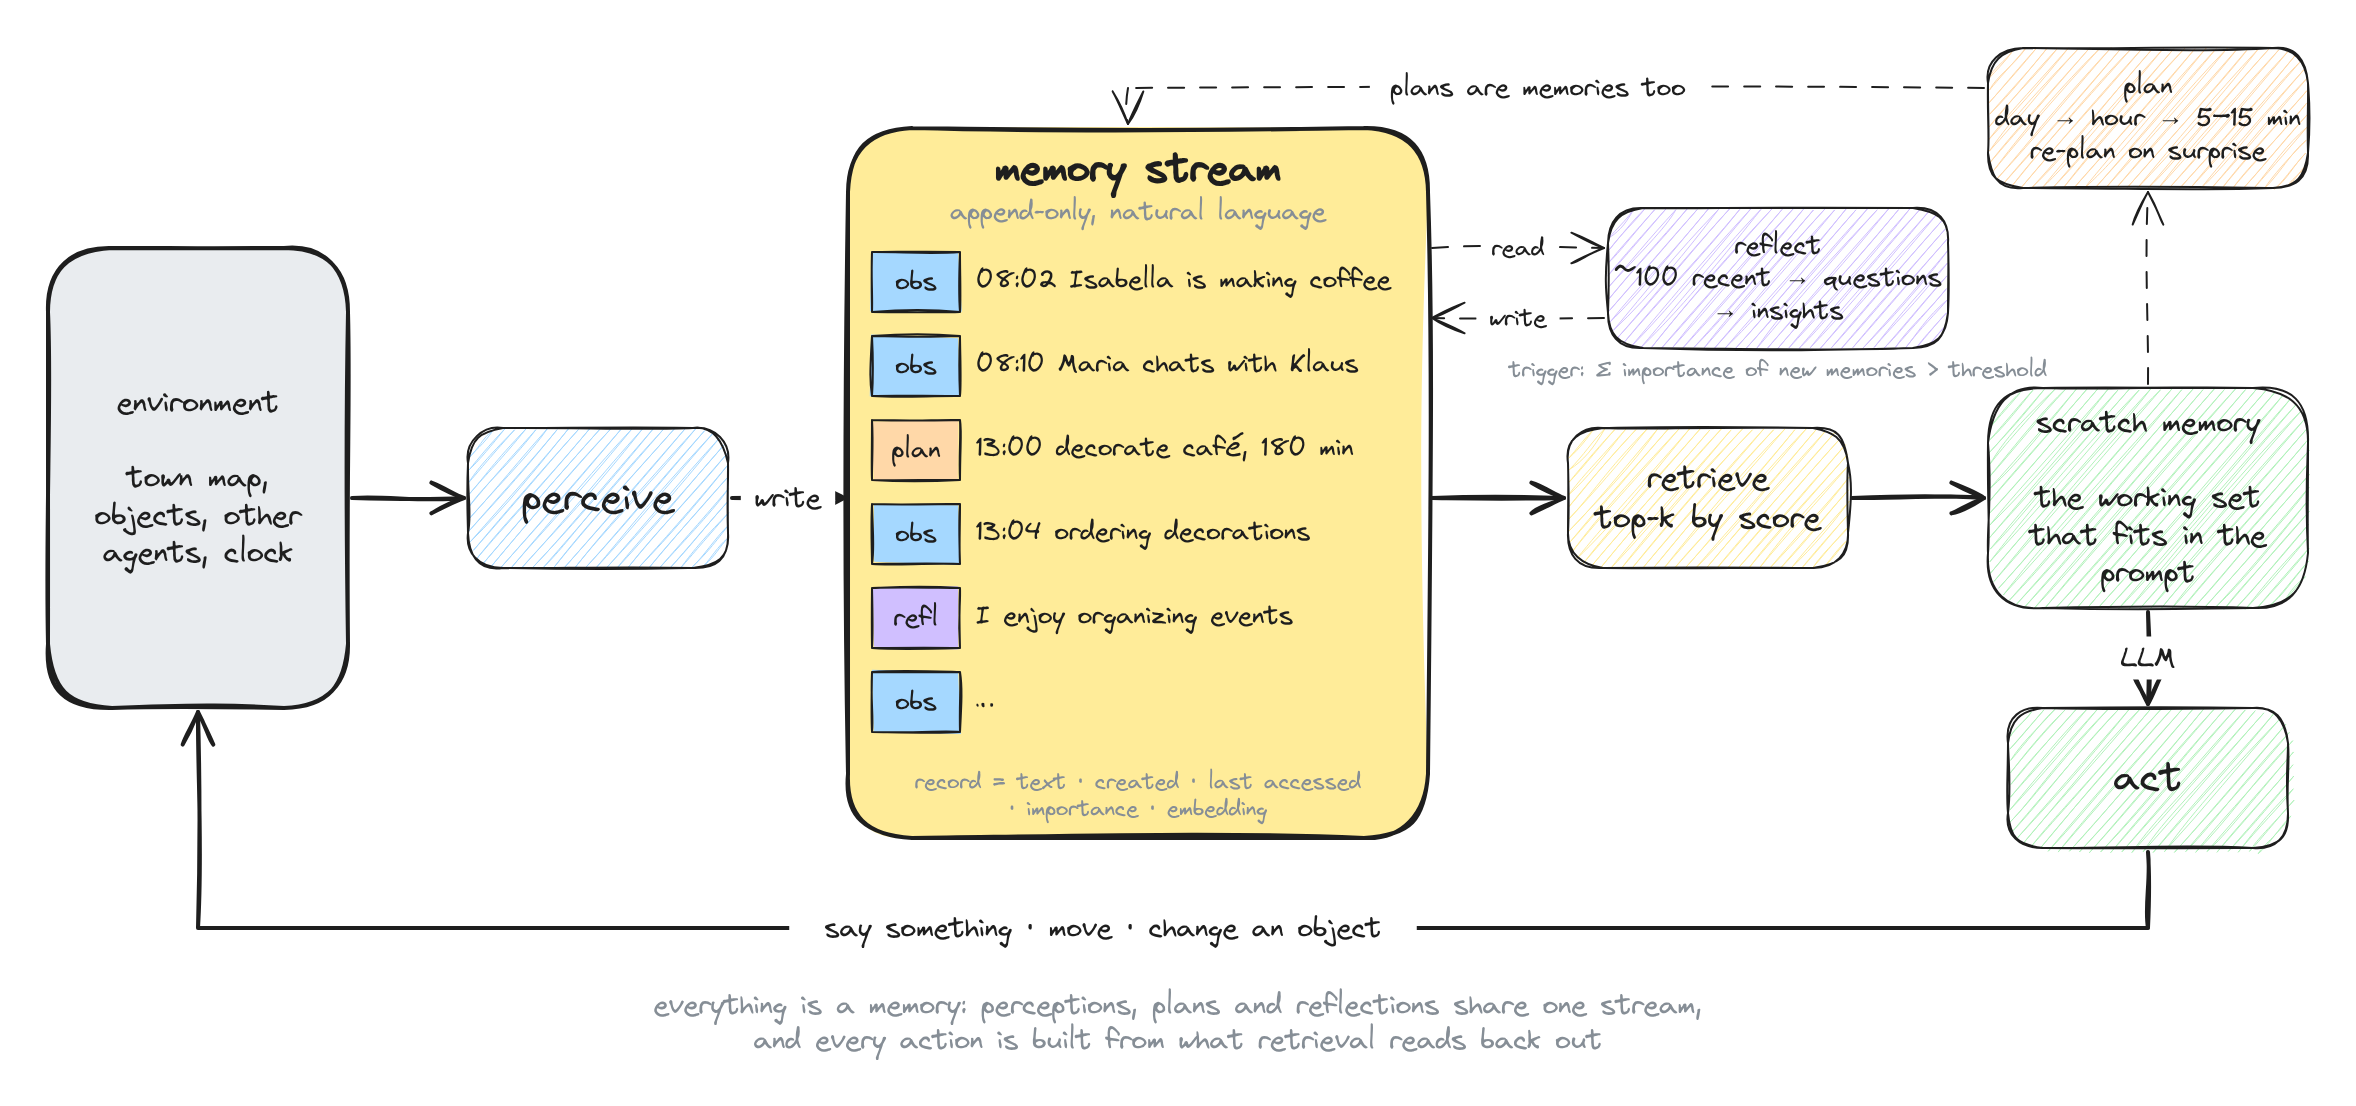
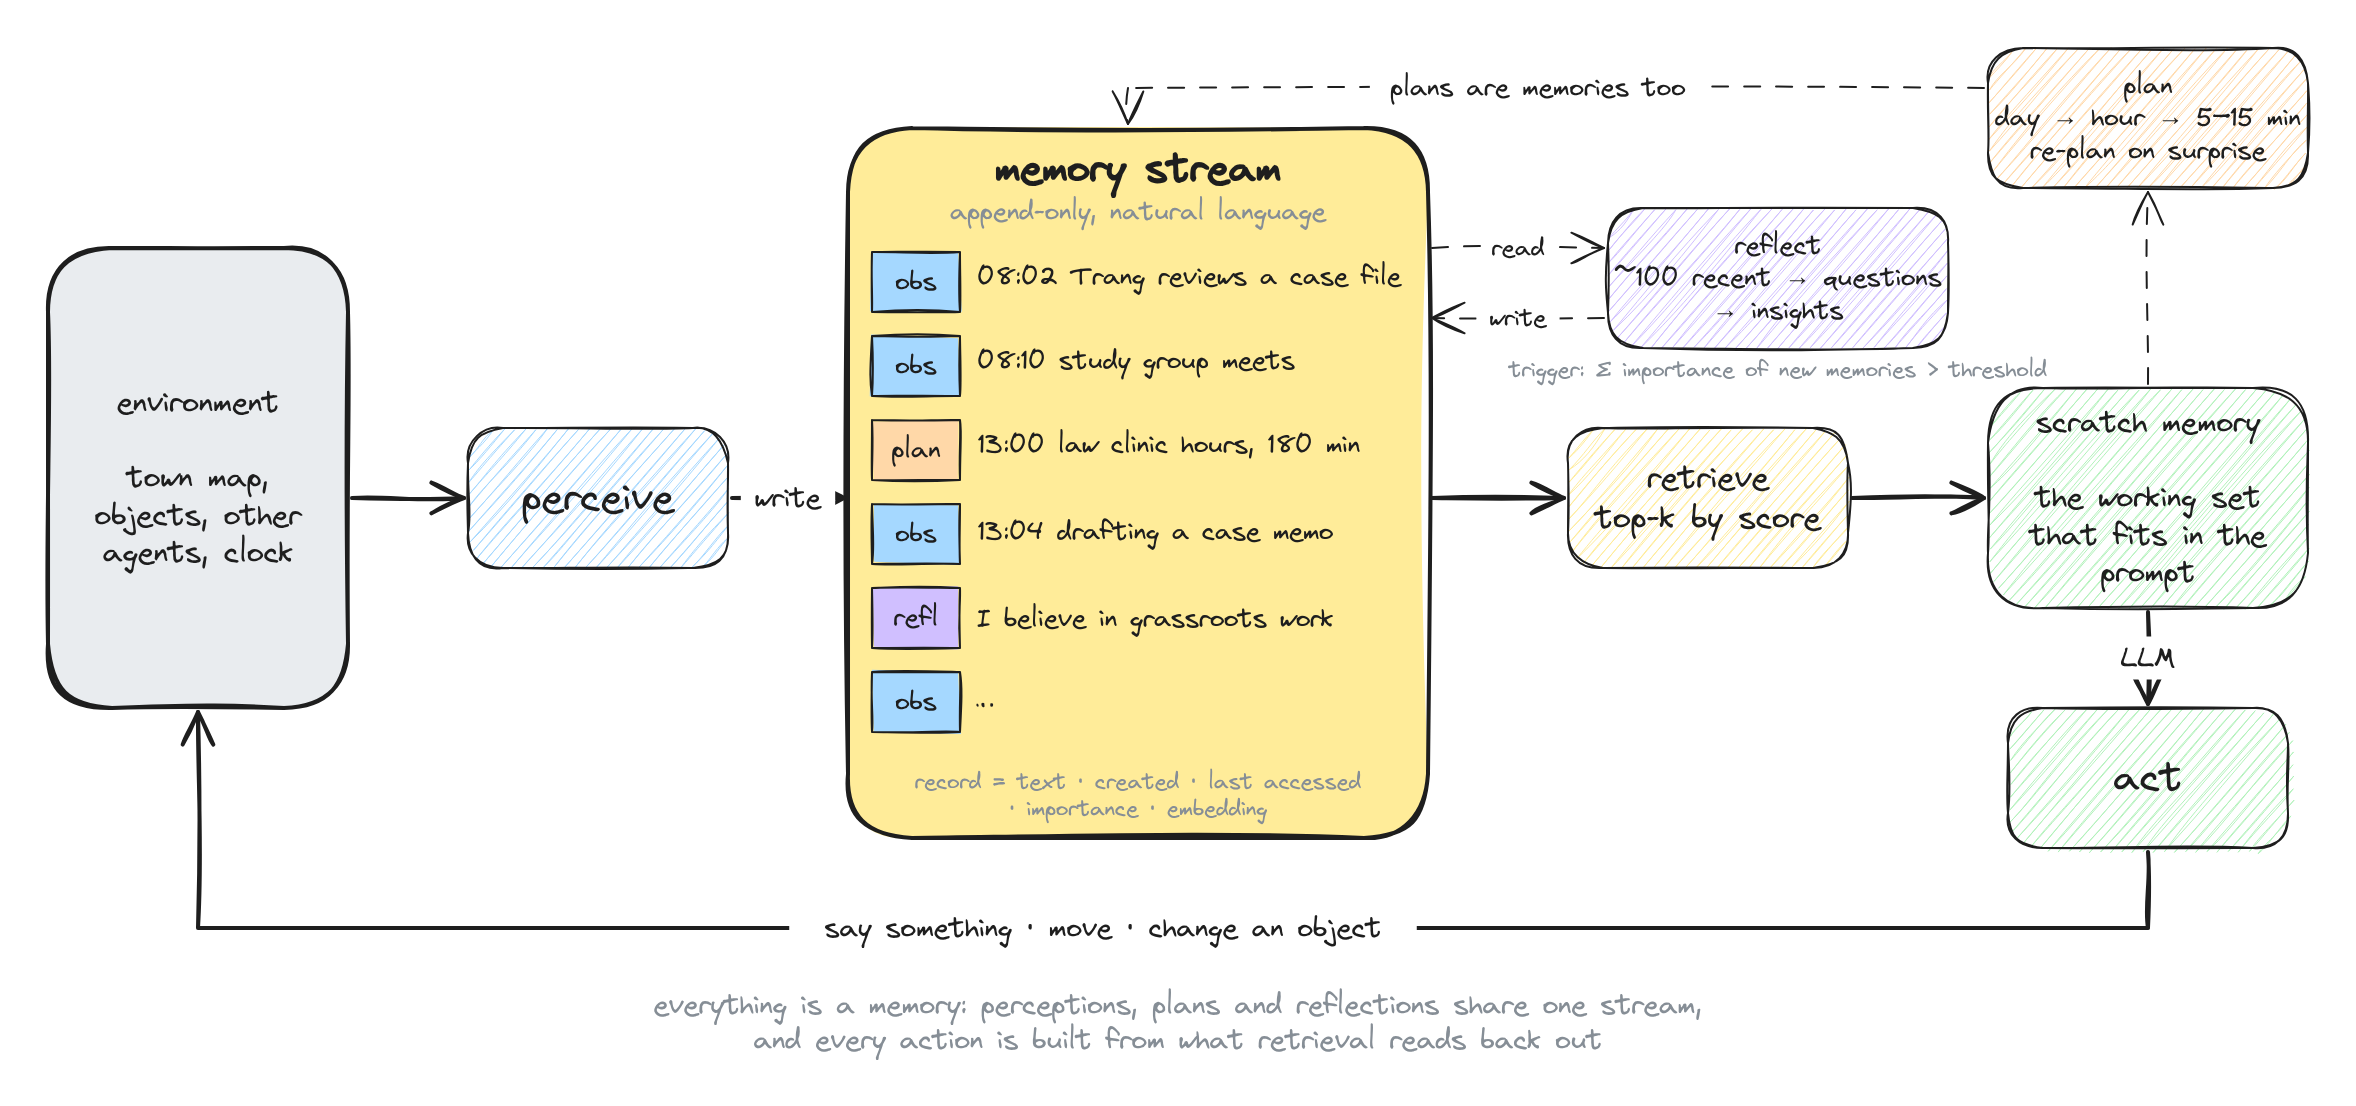
Use Trang instead of Isabella in Part 1 examples and diagrams
Section 4 examples, the memory stream diagram and the retrieval diagram now
use Trang's real memories (Environmental Law Clinic, city council race,
childhood forest weekends) instead of the paper's Isabella and café party.

diff --git a/_posts/2026-10-28-generative-agents-and-simulation.md b/_posts/2026-10-28-generative-agents-and-simulation.md
@@ -73,7 +73,7 @@ The old models are simple and you can read every rule. Their weakness is that th
 
 ### What changed
 
-You can hand a language model a line as short as "Isabella owns a café and is planning a party" and get human-like behavior out, drawn from an enormous range of written experience. That's the engine behind **generative agents**. They're open-ended and capture nuance that no rule set could, and they're much harder to build and much harder to trust. Most of what follows is about that trade.
+You can hand a language model a line as short as "Trang is an environmental lawyer who grew up exploring forests with her grandmother" and get human-like behavior out, drawn from an enormous range of written experience. That's the engine behind **generative agents**. They're open-ended and capture nuance that no rule set could, and they're much harder to build and much harder to trust. Most of what follows is about that trade.
 
 ## 2. Why simulate? Wicked problems
 
@@ -107,13 +107,13 @@ Most generative-AI simulation research right now is at the population level, for
 
 ## 4. How is an AI agent built?
 
-How do you turn a language model into a character that stays coherent over days of simulated time? A bare model can't. It has no memory of yesterday, and its context window won't hold two days of experience. Cognitive scientists have a name for the missing piece: a **cognitive architecture**, the fixed machinery underneath thought, such as memory, goals, and decision-making. SOAR (1983) and ACT-R (1993) were built to model human problem solving. The **generative agent** architecture from the 2023 paper of that name revives the idea with an LLM in the middle. The examples below come from its reference implementation, a town of 25 agents where one resident, Isabella, runs a café and is planning a party.
+How do you turn a language model into a character that stays coherent over days of simulated time? A bare model can't. It has no memory of yesterday, and its context window won't hold two days of experience. Cognitive scientists have a name for the missing piece: a **cognitive architecture**, the fixed machinery underneath thought, such as memory, goals, and decision-making. SOAR (1983) and ACT-R (1993) were built to model human problem solving. The **generative agent** architecture from the 2023 paper of that name revives the idea with an LLM in the middle. The paper demonstrates it on a town of 25 agents. The examples below use Trang, the agent I build in the next post, an environmental lawyer with 91 memories of her life.
 
 ![Generative agent architecture: the environment feeds perceive, which writes to an append-only memory stream of timestamped natural-language records (observations, plans, reflections). Retrieve pulls the top-k records by score into scratch memory, the working set that fits in the prompt; the LLM turns that into an act, which changes the environment. Reflect reads about a hundred recent records and writes insights back to the stream; plan writes day, hour, and 5–15-minute plans back to the stream too.](/assets/img/generative-agents/generative-agent-architecture.png)
 
 *Left to right: perception feeds the memory stream, retrieval pulls a small working set into scratch memory, and that set drives action. Plans and reflections loop back in as new memories.*
 
-**1. Perceive and remember.** The agent records everything it notices ("Maria is chatting with Klaus") in its **memory stream**, an append-only list of plain-language records. Each one carries its text, when it was created, when it was last accessed, an importance score, and an embedding. The stream gets far too long to hand to the model whole, and dumping it all in would drown the signal anyway. So the agent has to choose what to recall.
+**1. Perceive and remember.** The agent records everything it notices ("Trang is reviewing a permit case at the clinic") in its **memory stream**, an append-only list of plain-language records. Each one carries its text, when it was created, when it was last accessed, an importance score, and an embedding. The stream gets far too long to hand to the model whole, and dumping it all in would drown the signal anyway. So the agent has to choose what to recall.
 
 **2. Retrieve.** Retrieval scores every record against the current situation and takes the top of the list:
 
@@ -121,7 +121,7 @@ How do you turn a language model into a character that stays coherent over days 
 score(m) = α_rec · recency(m) + α_imp · importance(m) + α_rel · relevance(m, q)
 ```
 
-![Retrieval scoring: a query ("What are you excited about?") and a memory ("ordering decorations for the party") feed three scorers. Recency: 0.995 to the power of hours since last accessed, drawn as a decay curve. Importance: a 1–10 rating the LLM assigns once when the memory is written (brushing teeth 2, break-up 9). Relevance: cosine similarity of the two embeddings. Each is min-max normalized to [0, 1], summed with weights of 1, sorted, and the top memories are taken until the prompt's token budget is full.](/assets/img/generative-agents/retrieval-scoring.png)
+![Retrieval scoring: a query ("What did you do at the clinic?") and a memory ("Trang joined her law school's Environmental Law Clinic") feed three scorers. Recency: 0.995 to the power of hours since last accessed, drawn as a decay curve. Importance: a 1–10 rating the LLM assigns once when the memory is written (brushing teeth 2, break-up 9). Relevance: cosine similarity of the two embeddings. Each is min-max normalized to [0, 1], summed with weights of 1, sorted, and the top memories are taken until the prompt's token budget is full. What comes back is the clinic memory, not her childhood weekends in the forest.](/assets/img/generative-agents/retrieval-scoring.png)
 
 The three terms, as the paper implements them:
 
@@ -135,15 +135,15 @@ Each term is min-max normalized to [0, 1] across the candidates before summing, 
 >
 > The weights matter more than the scale. For an interview agent that answers one question at a time, I ended up at 3 · relevance + 0.5 · importance + 0.5 · recency, because being on topic beats everything else, with decay per time step rather than per hour. The best answer to Trang's opening interview question came from a memory rated 30 out of 100; 74 of her 91 memories outrank it on importance. It won because it was exactly on topic. With the paper's equal weights, I'm fairly sure it would have lost to a childhood memory about the forest. The next post has the full ranking table.
 
-Ask Isabella "What are you excited about?" and retrieval surfaces her party plans and the decorations she ordered, not the piano someone played nearby last week.
+Ask Trang "What have you worked on in your law school's Environmental Law Clinic?" and retrieval surfaces the clinic memory, not her childhood weekends in the forest.
 
-**3. Act.** The retrieved records land in **scratch memory**, the agent's working set. The prompt is scratch memory plus a summary of who the agent is and what it's doing right now, and the LLM decides: say something, walk somewhere, or change the world, like turning on the coffee machine.
+**3. Act.** The retrieved records land in **scratch memory**, the agent's working set. The prompt is scratch memory plus a summary of who the agent is and what it's doing right now, and the LLM decides: say something, walk somewhere, or change the world, like pulling up a case file.
 
-**4. Reflect.** Observations alone don't let an agent generalize about itself. So periodically it reviews its hundred or so most recent records and writes higher-level thoughts, such as "I enjoy organizing events and making people feel welcome." The mechanics: reflection fires when the summed importance of recent events crosses a threshold (150 in the paper, so a few times a day). The agent asks the LLM for the three most salient questions those records raise, retrieves against each question, and asks for insights that cite the supporting records. The insights go into the stream as new records, which means later reflections can build on earlier ones. Over time you get a tree: observations at the leaves, increasingly abstract thoughts higher up.
+**4. Reflect.** Observations alone don't let an agent generalize about itself. So periodically it reviews its hundred or so most recent records and writes higher-level thoughts, such as "Losing the city council race deepened my commitment to grassroots activism." The mechanics: reflection fires when the summed importance of recent events crosses a threshold (150 in the paper, so a few times a day). The agent asks the LLM for the three most salient questions those records raise, retrieves against each question, and asks for insights that cite the supporting records. The insights go into the stream as new records, which means later reflections can build on earlier ones. Over time you get a tree: observations at the leaves, increasingly abstract thoughts higher up.
 
 This is the part of Trang I haven't wired into the app yet. The function exists, and when I ran it by hand on "what has losing the city council race taught me?" (she ran for city council in her backstory, and lost), she produced a belief about public service that no single memory states. The model rated those insights higher than almost all her raw memories, which is the point: reflections are what should win retrieval when someone asks a big question.
 
-**5. Plan.** Sensible moment-to-moment behavior isn't enough; an agent should also make sense across a day. Planning is top-down and recursive. The LLM drafts a rough day in five to eight chunks (wake at 8, class at 10, compose from 1 to 5), then expands each chunk into hourly steps, then into five-to-fifteen-minute actions with a location, a start time, and a duration. Plans are stored as memories too. Each tick the agent checks whether what it just saw calls for a reaction, and if so it re-plans from that point rather than following the stale schedule.
+**5. Plan.** Sensible moment-to-moment behavior isn't enough; an agent should also make sense across a day. Planning is top-down and recursive. The LLM drafts a rough day in five to eight chunks (wake at 7, clinic at 9, study group from 2 to 5), then expands each chunk into hourly steps, then into five-to-fifteen-minute actions with a location, a start time, and a duration. Plans are stored as memories too. Each tick the agent checks whether what it just saw calls for a reaction, and if so it re-plans from that point rather than following the stale schedule.
 
 The idea underneath all five steps is that **everything is a memory**. Perceptions, plans, and reflections go into one stream, and everything the agent does is built from what it reads back out. That's what keeps behavior consistent over time, and it's what makes the thing debuggable: when an agent does something strange, print the records it retrieved and you can usually see why. Trang's interview app shows the retrieved memories and their scores under every answer for exactly this reason; it's the single feature that made the project tolerable to work on. It's also what makes the architecture expensive. Cost is agents × ticks × LLM calls per tick, and a tick can involve perception, retrieval scoring, action generation, and the occasional reflection and planning pass.
 
